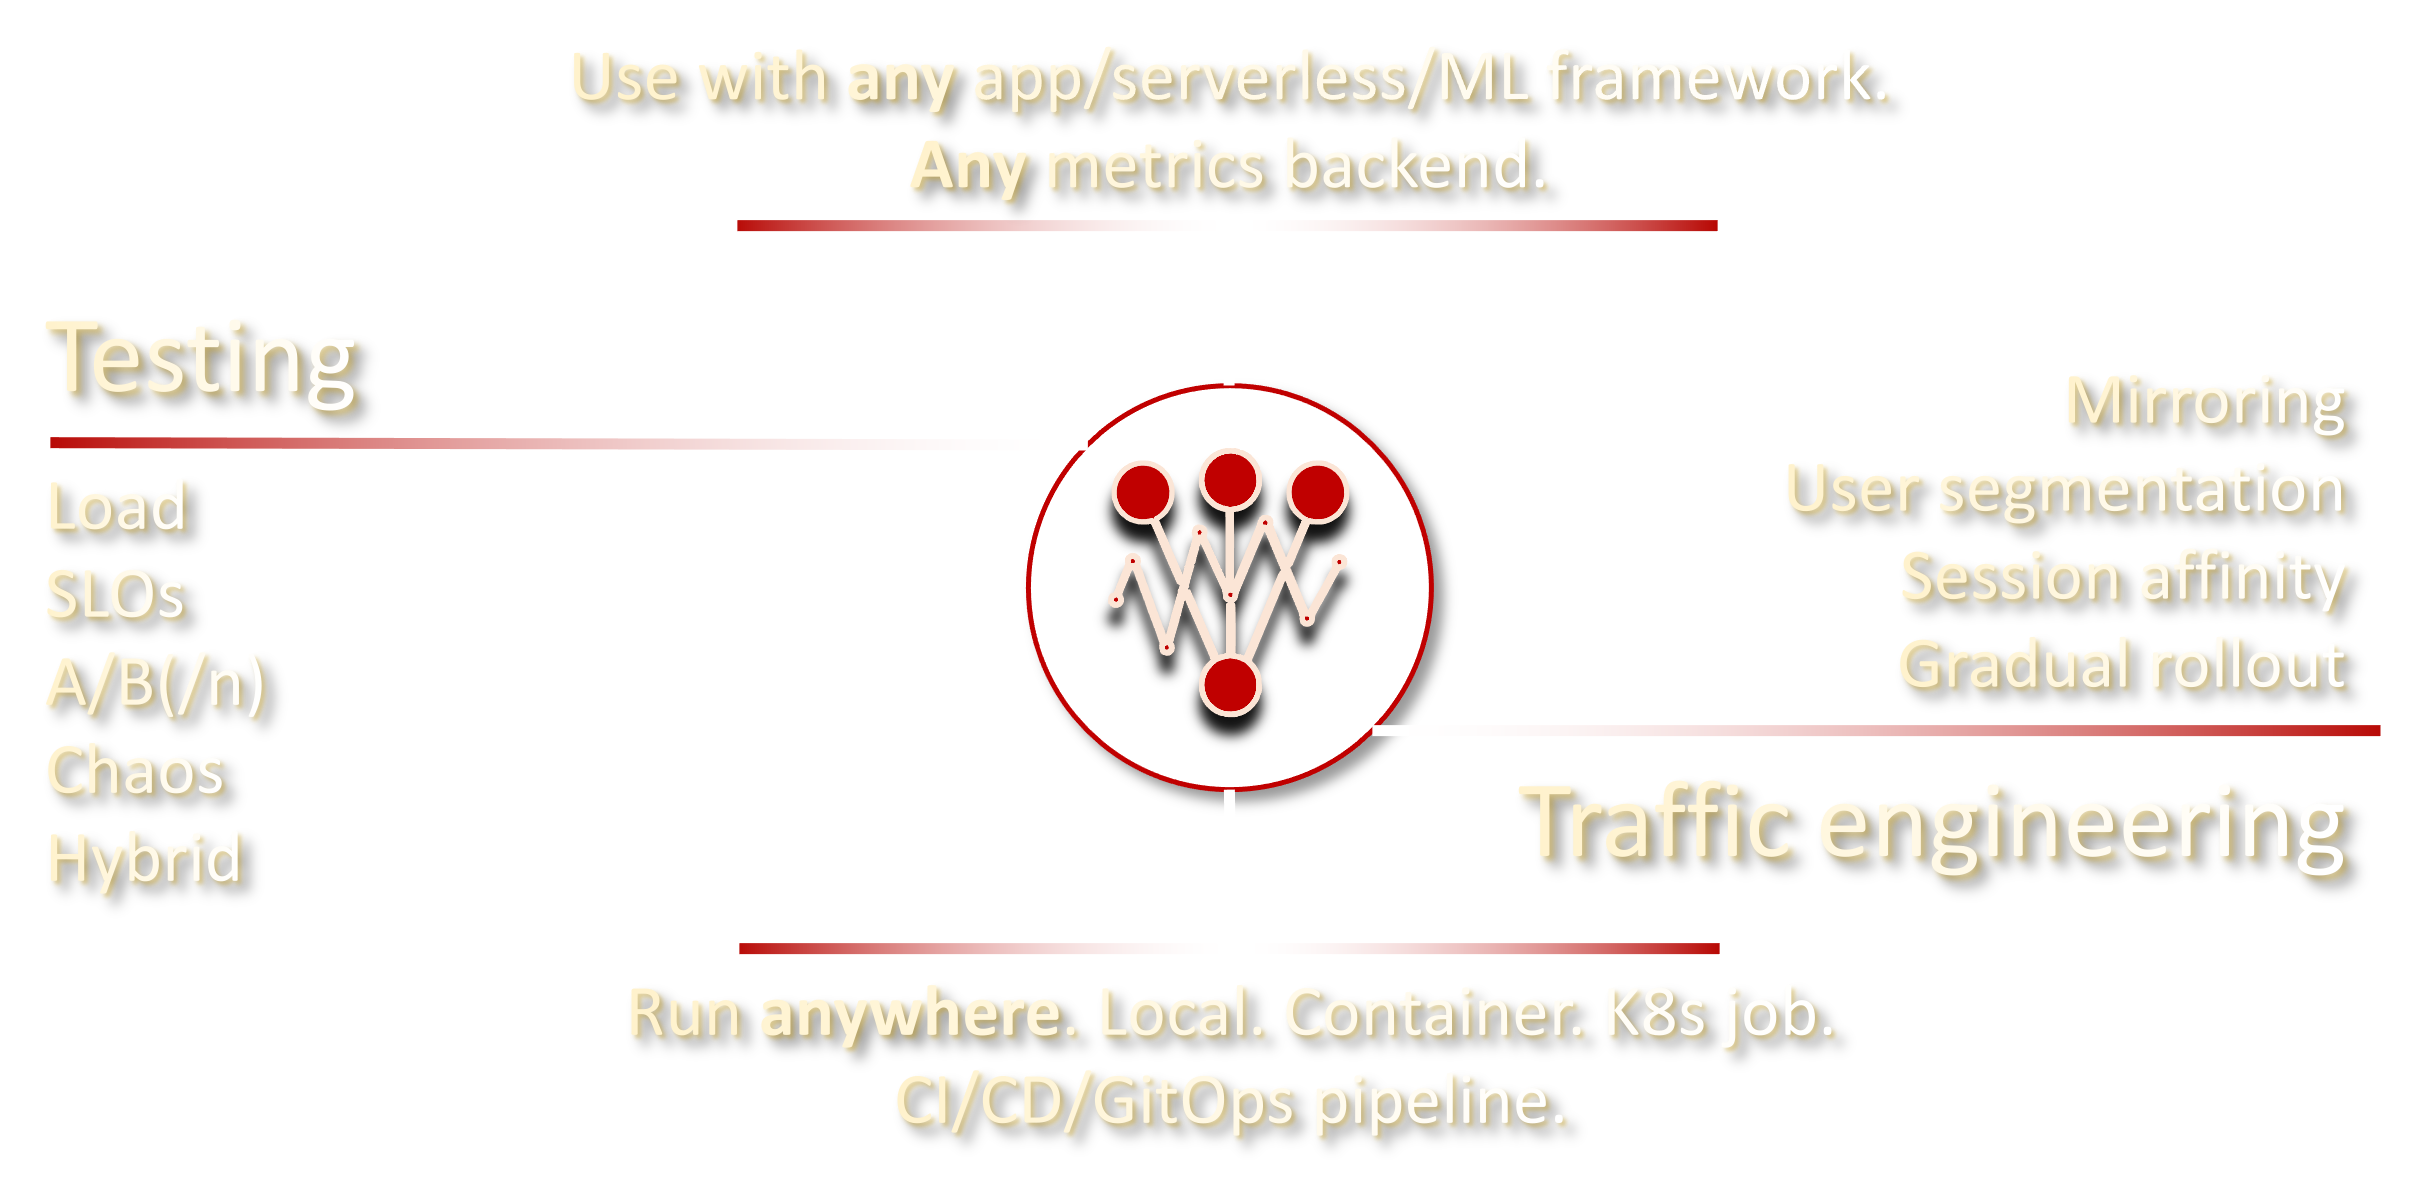
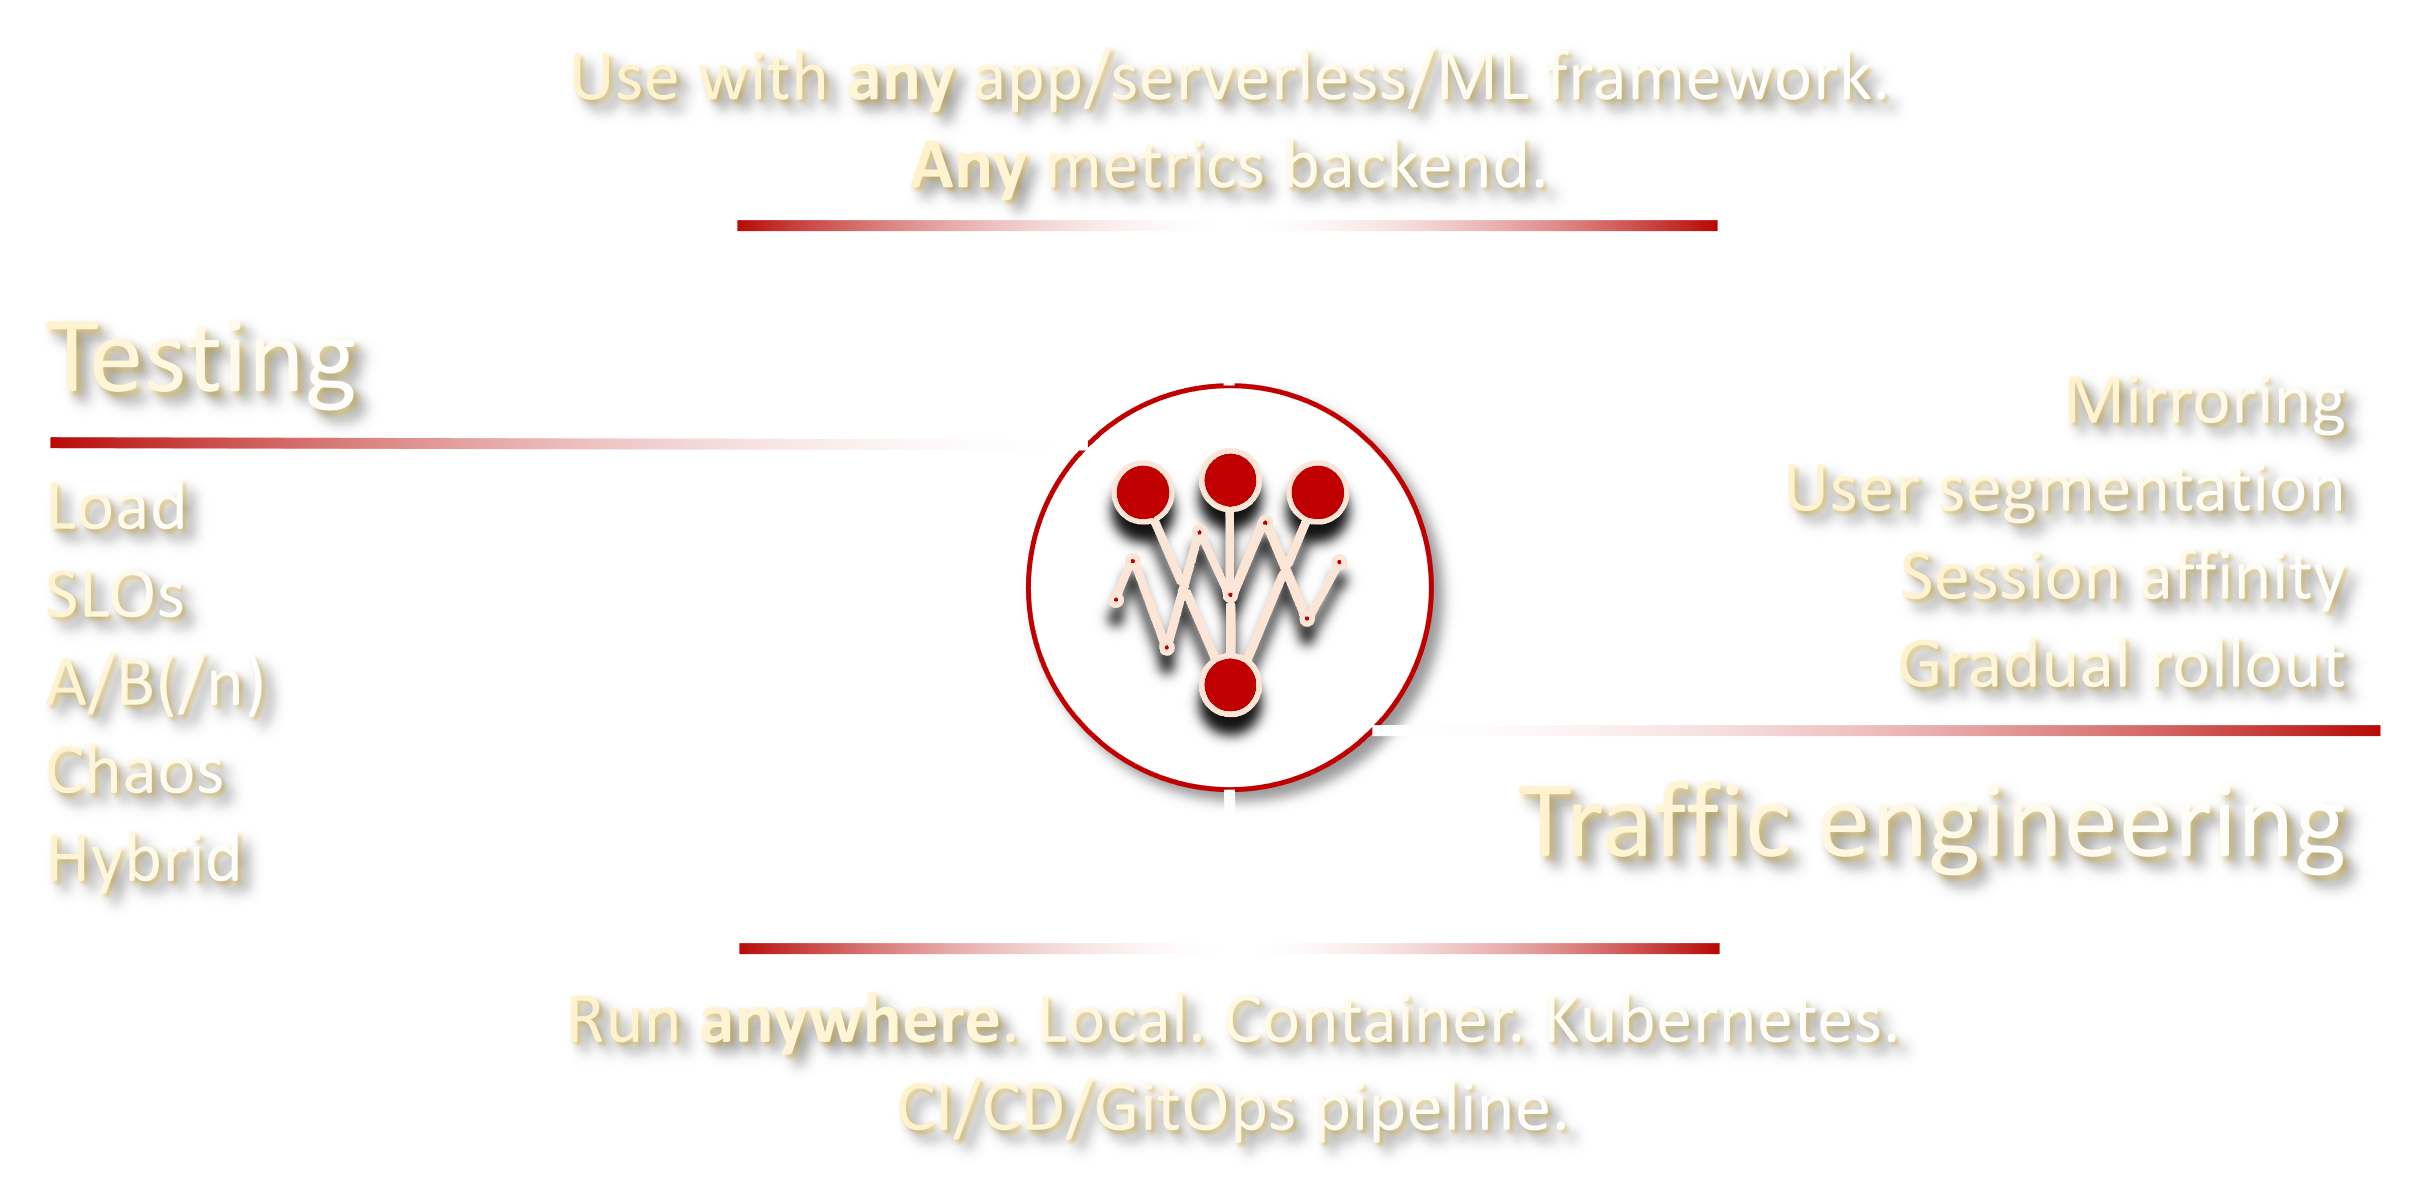
illustration

diff --git a/mkdocs/overrides/home.html b/mkdocs/overrides/home.html
@@ -65,16 +65,13 @@
       <!-- Hero content -->
       <div class="mdx-hero__content">
         <h1><strong>Metrics Driven Experiments</strong></h1>
-
         <h3>
           Maximize <strong>release velocity</strong>. Optimize <strong>business value</strong>. Protect <strong>end-user experience</strong>.
         </h3> 
-      
         <a href="{{ base_url }}/experimenthub/load-test" title="Quick start"
           class="md-button md-button--primary">
           Quick start in 2 min
         </a>
-
       </div>
 
       <!-- Hero image -->
@@ -98,22 +95,12 @@
           href="https://www.apache.org/licenses/LICENSE-2.0">Apache 2 License</a> on <a
           href="https://github.com/iter8-tools/iter8">GitHub</a>.
       </h3>
-
       <iframe src="https://ghbtns.com/github-btn.html?user=iter8-tools&repo=iter8&type=star&count=true&size=large" frameborder="0" scrolling="0" width="170" height="30" title="GitHub"></iframe>
     </div>
-  </div>
 </section>
-
-<!-- <section>
-  <div class="md-grid md-typeset">
-    <h1>Adopters</h1>
-  </div>
-</section> -->
-
 
 <section class="fx-container">
   <div class="md-grid md-typeset">
-
     <!-- Main site box descriptions -->
     <div class="top-hr">
 
@@ -124,7 +111,7 @@
           </span>
           SLOs
         </h2>
-        <p>Iter8 <strong>validates</strong> if your app satisfies the service level objectives (<strong>SLOs</strong>) specified in the experiment.</p>
+        <p>Iter8 experiments can <strong>validate</strong> your app based on the service level objectives (<strong>SLOs</strong>) specified in the experiment.</p>
       </div>
 
       <div class="feature-item">
@@ -134,17 +121,17 @@
           </span>
           Load testing
         </h2>
-        <p>Iter8 can generate requests for <strong>HTTP</strong> and <strong>gRPC</strong> services, collect built-in latency and error related metrics and validates SLOs.</p>
+        <p>Iter8 experiments can generate requests for <strong>HTTP</strong> and <strong>gRPC</strong> services, collect built-in latency and error related metrics and validate SLOs.</p>
       </div>
       
       <div class="feature-item">
         <h2>
           <span class="twemoji">
-            {% include ".icons/material/atom.svg" %}
+            {% include ".icons/material/rhombus-split.svg" %}
           </span>
           A/B(/n) testing
         </h2>
-        <p><strong>Grow your business</strong> with every release. Iter8 compares multiple versions based on business value and identifies a <strong>winner</strong>.</p>
+        <p><strong>Grow your business</strong> with every release. Iter8 experiments can compare multiple versions based on business value and identify a <strong>winner</strong>.</p>
       </div>
 
       <div class="feature-item">
@@ -157,7 +144,7 @@
           </span> -->
           Traffic engineering
         </h2>
-        <p>Iter8 can leverage your service mesh, ingress, or networking technology for <strong>mirroring</strong>, <strong>user segmentation</strong>, <strong>session affinity</strong>, and <strong>gradual rollout</strong>.</p>
+        <p>Combine Iter8 with your service mesh, ingress, or networking technology for <strong>mirroring</strong>, <strong>user segmentation</strong>, <strong>session affinity</strong>, and <strong>gradual rollout</strong>.</p>
       </div>
 
       <div class="feature-item">
@@ -167,53 +154,43 @@
           </span>
           Simple to use
         </h2>
-        <p>Define experiments using a <strong>simple YAML file</strong>. Run Iter8 <strong>locally</strong>, as a <strong>kubectl plugin</strong>, in a <strong>container</strong>, in <strong>Kubernetes</strong>, or as a step in your <strong>CI/CD/GitOps</strong> pipeline.</p>
+        <p>Define experiments using a <strong>simple YAML file</strong>. Run them <strong>locally</strong>, in a <strong>container</strong>, inside <strong>Kubernetes</strong>, or inside your <strong>CI/CD/GitOps</strong> pipeline.</p>
       </div>
 
       <div class="feature-item">
         <h2>
           <span class="twemoji">
-            {% include ".icons/material/database-plus.svg" %}
+            {% include ".icons/material/apps.svg" %}
           </span>
           Awesome integrations
         </h2>
-        <p>Use Iter8 with any <strong>app, serverless, or ML</strong> framework.
-        Use metrics from <strong>any</strong> provider. Examples: <strong>Prometheus, New Relic, Sysdig, and Elastic</strong>.</p>
+        <p>Experiment with any <strong>app, serverless, or ML</strong> deployment.
+        Use metrics from <strong>any</strong> provider like <strong>Prometheus, New Relic, Sysdig,</strong> and <strong>Elastic</strong>.</p>
       </div>
 
       <div class="feature-item">
         <h2>
           <span class="twemoji">
-            {% include ".icons/material/git.svg" %}
+            {% include ".icons/material/webhook.svg" %}
           </span>
           Eventing
         </h2>
-        <p>Iter8 can automatically create<strong> GitHub pull requests</strong>. Trigger <strong>GitHub Action workflows</strong>. Notify <strong>webhooks and slack</strong>.</p>
+        <p>Iter8 experiments can automatically create<strong> GitHub pull requests</strong>, trigger <strong>GitHub Action workflows</strong>, and send notifications to <strong>webhooks</strong> and <strong>slack</strong>.</p>
       </div>
 
       <div class="feature-item">
         <h2>
           <span class="twemoji">
-            {% include ".icons/material/git.svg" %}
+            {% include ".icons/material/chart-bar.svg" %}
           </span>
           Flexible reporting
         </h2>
-        <p>Iter8 reports results of the experiment in <strong>plain text</strong> or in any custom format specified by a <strong>Go template</strong>.</p>
-      </div>      
-      
-    </div>
+        <p>Iter8 can report results of the experiment in <strong>plain text</strong> or in any custom format specified by a <strong>Go template</strong>.</p>
+      </div>
 
     </div>
   </div>
 </section>
-
-<!-- <section>
-  <div class="md-grid md-typeset">
-    <h1>Integrations</h1>
-  </div>
-</section> -->
-
-
 
 <!-- Hero for landing page -->
 <section class="tx-container">
